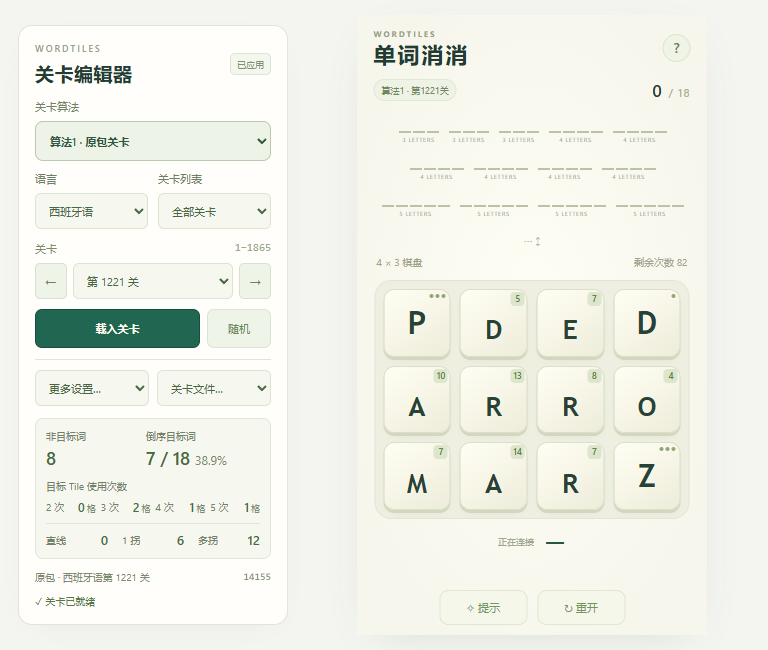
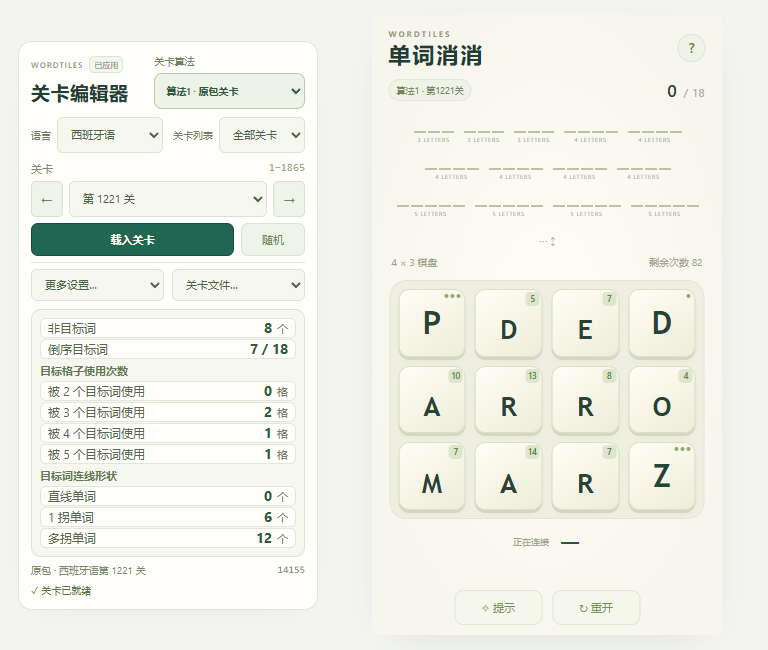
Clarify level statistics with labeled count rows

diff --git a/dist/styles.css b/dist/styles.css
@@ -88,22 +88,29 @@
 /* One viewport: the game is always playable; secondary controls open on demand. */
 html,body{width:100%;height:100%;overflow:hidden;overscroll-behavior:none}
 .app-shell{width:100%;max-width:1180px;height:100vh;height:100dvh;padding:16px 24px;margin:0 auto}
-.workspace{height:100%;min-height:0;display:grid;grid-template-columns:290px minmax(0,1fr);gap:40px;padding:0;align-items:center}
+.workspace{height:100%;min-height:0;display:grid;grid-template-columns:320px minmax(0,1fr);gap:32px;padding:0;align-items:center}
 .editor-panel{width:100%;max-height:100%;padding:22px;border-radius:14px;overflow-y:auto;overscroll-behavior:contain;scrollbar-width:thin;box-shadow:0 8px 30px -22px #223b3333}
-.editor-heading{gap:10px;margin-bottom:22px}
-.editor-heading .eyebrow{display:block;font-size:9px;letter-spacing:2px;margin-bottom:6px}
+.editor-heading{display:grid;grid-template-columns:minmax(100px,1fr) minmax(0,1.35fr);gap:12px;margin-bottom:16px;align-items:center}
+.editor-title{min-width:0}
+.editor-kicker{display:flex;align-items:center;gap:6px;margin-bottom:6px}
+.editor-heading .eyebrow{display:block;font-size:8px;letter-spacing:1px;margin:0}
+.editor-kicker .draft-tag{margin:0;font-size:8px;padding:2px 4px}
+.editor-title h1{white-space:nowrap}
 h1{font-size:19px;letter-spacing:.5px}
 .draft-tag{margin-left:auto;font-size:9px;padding:4px 6px;white-space:nowrap}
 .icon-button{border:0;background:transparent;color:#6e816b;padding:0 4px;line-height:1;font-size:26px}
 #editor-close,#editor-toggle{display:none}
 .algorithm-field{font-size:11px;margin-bottom:16px;gap:7px}
 .algorithm-field select{height:40px;font-size:11px;padding:0 10px}
+.editor-heading .algorithm-field{min-width:0;margin:0;gap:5px;font-size:10px}
+.editor-heading .algorithm-field select{height:36px;padding:0 7px;font-size:10px}
 .source-controls{border:0;border-radius:0;background:transparent;padding:0;margin-bottom:18px}
 .field-grid{gap:10px}
 .field-grid label{font-size:11px;color:#6c8064;gap:7px}
 .field-grid select,.stack-field select,#word-lengths select,.editor-menus select{height:36px;min-width:0;width:100%;padding:0 9px;background:#f6f8f0;color:#486643;border:1px solid #dce3d2;border-radius:6px;font-size:11px}
+.source-controls .field-grid label{display:grid;grid-template-columns:auto minmax(0,1fr);align-items:center;gap:6px;font-size:10px}
 select:disabled{opacity:1;color:#718264;background:#f1f4e9;-webkit-text-fill-color:#718264}
-.source-position-label{font-size:11px;margin:16px 0 7px}
+.source-position-label{font-size:11px;margin:9px 0 6px}
 .source-navigation{display:grid;grid-template-columns:32px minmax(0,1fr) 32px;gap:6px}
 .source-navigation select{width:100%;height:36px;min-width:0;padding:0 9px;border:1px solid #dce3d2;border-radius:6px;background:#f6f8f0;color:#45643c;font-size:11px}
 .source-navigation button{font-size:15px;padding:5px}
@@ -112,7 +119,7 @@ select:disabled{opacity:1;color:#718264;background:#f1f4e9;-webkit-text-fill-col
 .primary-button{padding:11px 12px;font-size:11px;border-radius:7px;justify-content:center;gap:20px}
 .generation-section{padding:0;border:0;margin-bottom:14px}
 .generation-section>label{font-size:11px;margin-bottom:7px}
-.generation-section>.dictionary-field{display:flex;flex-direction:column;gap:7px;margin-bottom:10px}
+.generation-section>.dictionary-field{display:grid;grid-template-columns:52px minmax(0,1fr);align-items:center;gap:8px;margin-bottom:10px}
 .dictionary-field select{height:36px;padding:0 9px;border:1px solid #dce3d2;border-radius:6px;background:#f6f8f0;color:#486643;font-size:11px}
 .lexicon-warning{display:block;font-size:10px;color:#987237;margin:0 0 7px}
 .lexicon-status{font-size:11px;color:#6c8064;line-height:1.7;margin:10px 0 14px}
@@ -121,6 +128,11 @@ select:disabled{opacity:1;color:#718264;background:#f1f4e9;-webkit-text-fill-col
 .seed-row{margin-bottom:10px}
 .seed-row input{padding:11px 10px;font-size:12px}
 .seed-row button{font-size:11px;padding:0 15px}
+.seed-field{display:grid;grid-template-columns:52px minmax(0,1fr);align-items:center;gap:8px;margin-bottom:10px}
+.seed-field>label{font-size:11px;color:#6c8064}
+.seed-field .seed-row{margin:0}
+.seed-field input{padding:9px 8px}
+.seed-field button{padding:0 10px}
 .cancel-button{font-size:11px;padding:8px}
 .editor-menus{display:grid;grid-template-columns:1fr 1fr;gap:8px;padding-top:16px;border-top:1px solid var(--line)}
 .editor-current{display:flex;justify-content:space-between;align-items:center;gap:12px;margin-top:18px;font-size:10px;color:#7a8b6d}
@@ -129,22 +141,16 @@ select:disabled{opacity:1;color:#718264;background:#f1f4e9;-webkit-text-fill-col
 .editor-status{display:block;max-width:100%;border:0;background:transparent;color:#75876a;font-size:10px;padding:0;margin-top:10px;text-align:left;white-space:nowrap;overflow:hidden;text-overflow:ellipsis}
 .editor-status.error{color:var(--error)}
 .editor-status.success{color:#557745}
-.level-statistics{margin-top:16px;padding:12px;border:1px solid #e0e6d5;border-radius:8px;background:#f6f8f0}
-.stat-button{border:0;padding:0;background:transparent;color:#718165;cursor:help;font-size:10px;text-align:left}
-.stat-button strong{color:#476a3a;font-weight:600}
-.stat-button small{font-size:10px;font-weight:400;margin-left:5px;color:#7a8b6d}
-.word-stat-summary{display:grid;grid-template-columns:1fr 1.3fr;gap:12px}
-.word-stat-summary .stat-button{display:flex;flex-direction:column;gap:5px}
-.word-stat-summary strong{font-size:20px;line-height:23px;white-space:nowrap}
-.word-stat-summary small{font-size:12px}
-.stat-heading{display:block;margin-top:11px;margin-bottom:6px}
-.tile-use-stats{display:grid;grid-template-columns:repeat(4,1fr);gap:5px}
-.tile-use-stats .stat-button{display:flex;align-items:center;justify-content:space-between;gap:4px}
-.tile-use-stats strong{font-size:12px;white-space:nowrap}
-.tile-use-stats small{margin-left:2px;font-size:9px}
-.turn-stats{display:grid;grid-template-columns:repeat(3,1fr);gap:14px;border-top:1px solid #e0e6d5;margin-top:10px;padding-top:9px}
-.turn-stats .stat-button{display:flex;justify-content:space-between;align-items:center;gap:5px}
-.turn-stats strong{font-size:13px}
+.level-statistics{margin-top:14px;padding:11px;border:1px solid #dce5d2;border-radius:10px;background:#f6f8f0}
+.stat-button{border:0;padding:0;background:transparent;color:#53684c;cursor:help;font-size:12px;line-height:16px;text-align:left}
+.stat-button strong{color:#305a40;font-size:15px;font-weight:650;font-variant-numeric:tabular-nums;white-space:nowrap}
+.stat-button small{font-size:11px;font-weight:400;margin-left:5px;color:#718165}
+.stat-list{display:grid;grid-template-columns:minmax(0,1fr);gap:4px}
+.stat-row{display:flex;align-items:center;justify-content:space-between;gap:12px;min-height:28px;width:100%;padding:3px 9px;border:1px solid #e1e7d9;border-radius:6px;background:#fffefb}
+.stat-row:hover,.stat-row:focus-visible{background:#edf3e6;border-color:#c2d0b4}
+.stat-row>span{min-width:0;white-space:nowrap}
+.stat-row strong{margin-left:auto;line-height:18px}
+.stat-heading{display:block;width:100%;margin:9px 0 6px;font-size:11px;font-weight:600;line-height:16px;color:#5f7a51}
 .preview-column{height:100%;min-height:0;width:100%;justify-content:center;align-items:center}
 .game-viewport{box-shadow:0 12px 44px -22px #223b3333}
 .game-title-row{padding-bottom:18px;gap:12px}
@@ -196,7 +202,7 @@ pre{font-size:10px;line-height:1.7;max-height:none;margin:10px 0 0;overflow:visi
 #source-meta{margin:0}
 .hover-help{position:fixed;z-index:40;width:max-content;max-width:min(310px,calc(100vw - 16px));max-height:calc(100dvh - 16px);overflow:auto;border-radius:8px;padding:12px 14px;background:#263f35;color:#f4f5e9;font-size:11px;line-height:1.8;box-shadow:0 7px 25px #20392b25;pointer-events:none;overflow-wrap:anywhere}
 .sr-only{position:absolute;width:1px;height:1px;padding:0;margin:-1px;overflow:hidden;clip-path:inset(50%);white-space:nowrap;border:0}
-@media(max-width:1050px){.app-shell{padding:14px 18px}.workspace{grid-template-columns:270px minmax(0,1fr);gap:26px}.editor-panel{padding:20px}}
+@media(max-width:1050px){.app-shell{padding:14px 18px}.workspace{grid-template-columns:300px minmax(0,1fr);gap:26px}.editor-panel{padding:20px}}
 @media(max-width:760px){
   .app-shell{padding:8px;padding-top:max(8px,env(safe-area-inset-top));padding-bottom:max(8px,env(safe-area-inset-bottom))}
   .workspace{display:grid;grid-template-columns:minmax(0,1fr);gap:0;height:100%;padding:0}
@@ -204,15 +210,36 @@ pre{font-size:10px;line-height:1.7;max-height:none;margin:10px 0 0;overflow:visi
   .editor-panel{display:none;position:fixed;z-index:15;left:12px;top:12px;width:min(320px,calc(100vw - 24px));max-height:calc(100dvh - 24px);padding:20px;order:0;box-shadow:0 18px 70px #223b3345}
   .editor-open .editor-panel{display:block}
   #editor-close,#editor-toggle{display:block}
-  .editor-heading{gap:8px;margin-bottom:20px}
+  .editor-heading{grid-template-columns:90px minmax(0,1fr) 18px;gap:8px;margin-bottom:16px}
   .editor-heading h1{font-size:18px}
   .game-title-row{align-items:center}
   .game-tools{gap:6px}
   .settings-popover{max-height:calc(100dvh - 16px)}
 }
-@media(max-height:680px){.editor-panel{padding:16px}.editor-heading{margin-bottom:13px}.algorithm-field{margin-bottom:10px}.source-controls{margin-bottom:11px}.source-position-label{margin-top:12px}.editor-menus{padding-top:10px}.editor-current{margin-top:11px}.level-statistics{margin-top:12px;padding:10px}.word-stat-summary strong{font-size:18px;line-height:21px}.stat-heading{margin-top:8px}.turn-stats{margin-top:8px;padding-top:7px}}
+@media(max-height:850px){.stat-row{min-height:24px;padding:2px 8px}.stat-list{gap:3px}.stat-heading{margin:8px 0 5px}}
+@media(max-height:740px){.editor-panel{padding:16px}.editor-heading{margin-bottom:13px}.algorithm-field{margin-bottom:10px}.source-controls{margin-bottom:11px}.source-position-label{margin-top:12px}.editor-menus{padding-top:10px}.editor-current{margin-top:11px}.level-statistics{margin-top:12px;padding:9px}.stat-row{min-height:22px;padding:1px 7px}.stat-list{gap:2px}.stat-heading{margin:6px 0 4px;line-height:14px}.stat-button strong{font-size:14px;line-height:17px}}
 @media(max-height:620px){.editor-panel{padding:14px}.editor-heading{margin-bottom:11px}.algorithm-field select{height:36px}.field-grid select{height:34px}.source-navigation select{height:32px}.editor-current{margin-top:8px}.editor-status{margin-top:8px}.level-statistics{padding:9px}}
 @media(max-height:620px){.editor-heading .eyebrow{margin-bottom:3px}.algorithm-field{margin-bottom:8px;gap:5px}.source-position-label{margin-top:10px;margin-bottom:5px}.source-actions{margin-top:8px}.source-controls{margin-bottom:8px}.editor-menus{padding-top:8px}.primary-button{padding-top:9px;padding-bottom:9px}.level-statistics{margin-top:10px}.editor-status{margin-top:6px}}
-@media(max-height:580px){.editor-heading{margin-bottom:8px}.editor-heading .eyebrow{display:none}.algorithm-field select{height:32px}.field-grid select,.editor-menus select{height:32px}.level-statistics{padding:8px}.stat-heading{margin-top:6px}.turn-stats{margin-top:6px;padding-top:6px}}
-@media(max-height:680px){.generation-section>.dictionary-field{margin-bottom:8px;gap:5px}.lexicon-warning{margin-bottom:6px}.generation-section{margin-bottom:11px}}
+@media(max-height:580px){.editor-heading{margin-bottom:8px}.editor-heading .eyebrow{display:none}.editor-heading .algorithm-field{gap:3px}.editor-heading .algorithm-field select{height:32px}.editor-kicker{margin-bottom:3px}.field-grid select,.editor-menus select{height:32px}.level-statistics{padding:8px}.stat-row{min-height:20px;padding:0 7px}.stat-heading{margin:5px 0 3px}}
+@media(max-height:740px){.generation-section>.dictionary-field{margin-bottom:8px}.lexicon-warning{margin-bottom:6px}.generation-section{margin-bottom:11px}.seed-field{margin-bottom:8px}}
 @media(max-height:620px){.dictionary-field select{height:32px}.seed-row input{padding-top:9px;padding-bottom:9px}.generation-section>label{margin-bottom:5px}}
+@media(max-height:850px){.source-actions{margin-top:8px}.source-controls .primary-button{padding-top:9px;padding-bottom:9px}}
+@media(max-height:680px){
+  .editor-panel{padding:12px}
+  .editor-heading{margin-bottom:8px}
+  .editor-menus{padding-top:6px}
+  .editor-menus select{height:32px}
+  .source-position-label{margin:8px 0 5px}
+  .source-actions{margin-top:6px}
+  .source-controls{margin-bottom:6px}
+  .source-controls .primary-button{padding-top:8px;padding-bottom:8px}
+  .generation-section{margin-bottom:8px}
+  .seed-field input{padding-top:7px;padding-bottom:7px}
+  .level-statistics{margin-top:8px;padding:8px}
+  .stat-row{min-height:20px;padding:0 7px}
+  .stat-list{gap:1px}
+  .stat-heading{margin:5px 0 3px}
+  .editor-current{margin-top:6px}
+  .editor-status{margin-top:6px}
+}
+@media(max-height:580px){.editor-panel{padding:10px 12px}.editor-heading{margin-bottom:6px}.source-controls .field-grid select{height:32px}.level-statistics{padding:6px}.stat-row{min-height:19px}.stat-heading{margin:3px 0 2px}}

diff --git a/dist/index.html b/dist/index.html
@@ -7,14 +7,17 @@
   <meta name="description" content="WordTiles：原包关卡与自动生成，竖屏连词试玩，无需登录。">
   <title>WordTiles · 单词消消</title>
   <link rel="icon" href="./favicon.svg" type="image/svg+xml">
-  <link rel="stylesheet" href="./styles.css?v=8">
+  <link rel="stylesheet" href="./styles.css?v=9">
 </head>
 <body>
   <div class="app-shell">
     <main class="workspace">
       <aside id="editor-panel" class="editor-panel" aria-label="关卡编辑器">
-        <div class="editor-heading"><div><span class="eyebrow">WORDTILES</span><h1>关卡编辑器</h1></div><span id="draft-tag" class="draft-tag" data-help-from="config-status" tabindex="0">已应用</span><button id="editor-close" class="icon-button" type="button" aria-label="收起关卡编辑器">×</button></div>
-        <label class="algorithm-field" for="algorithm" data-help="算法1读取原安装包关卡；算法2使用 V1 回溯生成器。切换时保留各自的试玩进度。">关卡算法<select id="algorithm"><option value="1">算法1 · 原包关卡</option><option value="2">算法2 · 回溯生成 V1</option></select></label>
+        <div class="editor-heading">
+          <div class="editor-title"><div class="editor-kicker"><span class="eyebrow">WORDTILES</span><span id="draft-tag" class="draft-tag" data-help-from="config-status" tabindex="0">已应用</span></div><h1>关卡编辑器</h1></div>
+          <label class="algorithm-field" for="algorithm" data-help="算法1读取原安装包关卡；算法2使用 V1 回溯生成器。切换时保留各自的试玩进度。">关卡算法<select id="algorithm"><option value="1">算法1 · 原包关卡</option><option value="2">算法2 · 回溯生成 V1</option></select></label>
+          <button id="editor-close" class="icon-button" type="button" aria-label="收起关卡编辑器">×</button>
+        </div>
         <section id="source-controls" class="source-controls" aria-label="算法1关卡库">
           <div class="field-grid">
             <label for="source-language" data-help="选择原安装包中的语言词库。">语言<select id="source-language"><option value="english">英语</option><option value="portuguese">葡萄牙语</option><option value="russian">俄语</option><option value="spanish">西班牙语</option><option value="turkish">土耳其语</option></select></label>
@@ -28,8 +31,7 @@
         <div id="generation-section" class="generation-section" hidden>
           <label class="dictionary-field" for="dictionary-source" data-help="旧验收词库保留原来的 1,602 词与 seed 样例。分级母词库按本关词长、频率档位及人工审核状态筛选；在更多设置的词库入口调整。切换词库保留当前棋盘。">生成词库<select id="dictionary-source"><option value="legacy">旧验收词库 · 1,602 词</option><option value="graded">分级母词库</option></select></label>
           <span id="lexicon-warning" class="lexicon-warning" hidden data-help="内部测试开关允许未审核词参与生成。词频不代表适合休闲游戏；该开关不代表通过内容审核。" tabindex="0">词库未完成内容审核</span>
-          <label for="seed" data-help="相同种子、算法、搜索预算和词库会生成相同关卡。种子范围为 0～4294967295。">随机种子</label>
-          <div class="seed-row"><input id="seed" value="20261010" inputmode="numeric" maxlength="10" autocomplete="off" spellcheck="false" aria-label="关卡随机种子"><button id="generate-seed" type="button" data-help="使用输入的种子生成关卡。">生成</button></div>
+          <div class="seed-field"><label for="seed" data-help="相同种子、算法、搜索预算和词库会生成相同关卡。种子范围为 0～4294967295。">随机种子</label><div class="seed-row"><input id="seed" value="20261010" inputmode="numeric" maxlength="10" autocomplete="off" spellcheck="false" aria-label="关卡随机种子"><button id="generate-seed" type="button" data-help="使用输入的种子生成关卡。">生成</button></div></div>
           <button id="generate" class="primary-button" type="button" data-help="使用随机种子生成新关卡。只有通过全部校验后才会载入；生成失败保留当前关卡。"><span id="generate-label">生成并试玩</span><span aria-hidden="true">↗</span></button>
           <button id="cancel-generation" class="cancel-button" type="button" hidden data-help="终止当前搜索，保留关卡和试玩进度。">取消生成</button>
         </div>
@@ -38,21 +40,22 @@
           <label for="file-action" class="sr-only">关卡文件</label><select id="file-action" aria-label="关卡文件" data-help="导入或导出完整初始关卡 JSON。导入前会使用当前算法的词库和规则进行校验。"><option value="">关卡文件…</option><option value="import">导入 JSON</option><option value="export">导出 JSON</option><option value="sample" hidden>固定样例</option></select>
         </div>
         <section id="level-statistics" class="level-statistics" aria-label="关卡初始统计">
-          <div class="word-stat-summary">
-            <button id="extra-word-stat" class="stat-button" type="button" data-help="正在读取关卡统计。"><span>非目标词</span><strong id="extra-word-count">—</strong></button>
-            <button id="reverse-word-stat" class="stat-button" type="button" data-help="正在读取关卡统计。"><span>倒序目标词</span><strong><span id="reverse-word-count">—</span><small id="reverse-word-percent">—</small></strong></button>
+          <div class="word-stat-summary stat-list">
+            <button id="extra-word-stat" class="stat-button stat-row" type="button" data-help="正在读取关卡统计。"><span>非目标词</span><strong><span id="extra-word-count">—</span><small>个</small></strong></button>
+            <button id="reverse-word-stat" class="stat-button stat-row" type="button" data-help="正在读取关卡统计。"><span>倒序目标词</span><strong id="reverse-word-count">—</strong></button>
           </div>
-          <button id="tile-usage-heading" class="stat-heading stat-button" type="button" data-help="正在读取关卡统计。">目标 Tile 使用次数</button>
-          <div class="tile-use-stats">
-            <button id="tile-use-stat-2" class="stat-button" type="button" data-help="正在读取关卡统计。"><span>2 次</span><strong><span id="tile-used-2">—</span><small>格</small></strong></button>
-            <button id="tile-use-stat-3" class="stat-button" type="button" data-help="正在读取关卡统计。"><span>3 次</span><strong><span id="tile-used-3">—</span><small>格</small></strong></button>
-            <button id="tile-use-stat-4" class="stat-button" type="button" data-help="正在读取关卡统计。"><span>4 次</span><strong><span id="tile-used-4">—</span><small>格</small></strong></button>
-            <button id="tile-use-stat-5" class="stat-button" type="button" data-help="正在读取关卡统计。"><span>5 次</span><strong><span id="tile-used-5">—</span><small>格</small></strong></button>
+          <button id="tile-usage-heading" class="stat-heading stat-button" type="button" data-help="正在读取关卡统计。">目标格子使用次数</button>
+          <div class="tile-use-stats stat-list">
+            <button id="tile-use-stat-2" class="stat-button stat-row" type="button" data-help="正在读取关卡统计。"><span>被 2 个目标词使用</span><strong><span id="tile-used-2">—</span><small>格</small></strong></button>
+            <button id="tile-use-stat-3" class="stat-button stat-row" type="button" data-help="正在读取关卡统计。"><span>被 3 个目标词使用</span><strong><span id="tile-used-3">—</span><small>格</small></strong></button>
+            <button id="tile-use-stat-4" class="stat-button stat-row" type="button" data-help="正在读取关卡统计。"><span>被 4 个目标词使用</span><strong><span id="tile-used-4">—</span><small>格</small></strong></button>
+            <button id="tile-use-stat-5" class="stat-button stat-row" type="button" data-help="正在读取关卡统计。"><span>被 5 个目标词使用</span><strong><span id="tile-used-5">—</span><small>格</small></strong></button>
           </div>
-          <div class="turn-stats">
-            <button id="straight-word-stat" class="stat-button" type="button" data-help="正在读取关卡统计。"><span>直线</span><strong id="straight-word-count">—</strong></button>
-            <button id="one-turn-word-stat" class="stat-button" type="button" data-help="正在读取关卡统计。"><span>1 拐</span><strong id="one-turn-word-count">—</strong></button>
-            <button id="multi-turn-word-stat" class="stat-button" type="button" data-help="正在读取关卡统计。"><span>多拐</span><strong id="multi-turn-word-count">—</strong></button>
+          <h2 class="stat-heading">目标词连线形状</h2>
+          <div class="turn-stats stat-list">
+            <button id="straight-word-stat" class="stat-button stat-row" type="button" data-help="正在读取关卡统计。"><span>直线单词</span><strong><span id="straight-word-count">—</span><small>个</small></strong></button>
+            <button id="one-turn-word-stat" class="stat-button stat-row" type="button" data-help="正在读取关卡统计。"><span>1 拐单词</span><strong><span id="one-turn-word-count">—</span><small>个</small></strong></button>
+            <button id="multi-turn-word-stat" class="stat-button stat-row" type="button" data-help="正在读取关卡统计。"><span>多拐单词</span><strong><span id="multi-turn-word-count">—</span><small>个</small></strong></button>
           </div>
         </section>
         <div class="editor-current"><span id="level-kind" data-help-from="source-library-status">原包关卡</span><span><span id="active-seed-label" class="sr-only">原关卡 ID</span><code id="active-seed">—</code></span></div>
@@ -103,6 +106,6 @@
     </div>
   </section>
   <div id="hover-help" class="hover-help" role="tooltip" hidden></div>
-  <script type="module" src="./app.js?v=8"></script>
+  <script type="module" src="./app.js?v=9"></script>
 </body>
 </html>

diff --git a/dist/app.js b/dist/app.js
@@ -202,14 +202,13 @@ function renderLevelStatistics() {
     : `在 ${levelDictionary.version} 词库中，统计初始棋盘能用四向相邻路径拼出的非目标词；同一格不能重复经过，同一单词的多条路径只算一次。`;
   $('#extra-word-stat').dataset.help = extraRule + (stats.extraWords.length ? ' 单词：' + stats.extraWords.join('、') + '。' : ' 本关没有非目标词。') + ' 这是初始关卡数量，试玩时保持不变。';
   $('#reverse-word-count').textContent = `${stats.reverseWordCount} / ${stats.targetCount}`;
-  $('#reverse-word-percent').textContent = `${Number(stats.reversePercentage.toFixed(1))}%`;
-  $('#reverse-word-stat').dataset.help = '只统计目标词，每个词按保存的参考路径计算一次。起点在终点左侧为正序；同列或右侧都算倒序。比例 = 倒序目标数 ÷ 全部目标数。' + (stats.reverseWords.length ? ' 倒序词：' + stats.reverseWords.join('、') + '。' : ' 本关全部目标为正序。') + ' 试玩时保持不变。';
+  $('#reverse-word-stat').dataset.help = '只统计目标词，每个词按保存的参考路径计算一次。起点在终点左侧为正序；同列或右侧都算倒序。左边是倒序目标词数量，右边是本关目标词总数。' + (stats.reverseWords.length ? ' 倒序词：' + stats.reverseWords.join('、') + '。' : ' 本关全部目标为正序。') + ' 试玩时保持不变。';
   for (let uses = 2; uses <= 5; uses++) {
     const cells = stats.tileUses.flatMap((count, cell) => count === uses ? [cell] : []);
     $(`#tile-used-${uses}`).textContent = String(cells.length);
-    $(`#tile-use-stat-${uses}`).dataset.help = `恰好被 ${uses} 个目标词的参考路径使用的格子数；每个目标对同一格只算一次，非目标词不计入。` + (cells.length ? ' 格子编号：' + cells.join('、') + '。' : ' 本关没有此类格子。');
+    $(`#tile-use-stat-${uses}`).dataset.help = `恰好被 ${uses} 个目标词共用的格子有 ${cells.length} 格。按各目标词的参考路径统计，每个目标对同一格只算一次，非目标词不计入。` + (cells.length ? ' 格子编号：' + cells.join('、') + '。' : ' 本关没有此类格子。');
   }
-  $('#tile-usage-heading').dataset.help = '按完整初始关卡的目标参考路径反算，显示恰好使用 2、3、4、5 次的格子数；试玩消除不会改变统计。全部分布：' + Object.entries(stats.usageHistogram).map(([uses, count]) => `${uses} 次 ${count} 格`).join('；') + '。';
+  $('#tile-usage-heading').dataset.help = '格子就是棋盘上的字母方块。这里统计有多少格子被多个目标词共用，例如“被 2 个目标词使用：3 格”表示有 3 个格子各被 2 个目标词使用。只按初始关卡的目标参考路径统计，非目标词不计入，试玩消除不会改变统计。全部分布：' + Object.entries(stats.usageHistogram).map(([uses, count]) => `${uses} 次 ${count} 格`).join('；') + '。';
   for (const [id, matches] of [['straight', target => target.turns === 0], ['one-turn', target => target.turns === 1], ['multi-turn', target => target.turns >= 2]]) {
     const words = stats.targetPaths.filter(matches).map(target => target.word);
     $(`#${id}-word-count`).textContent = String(words.length);
